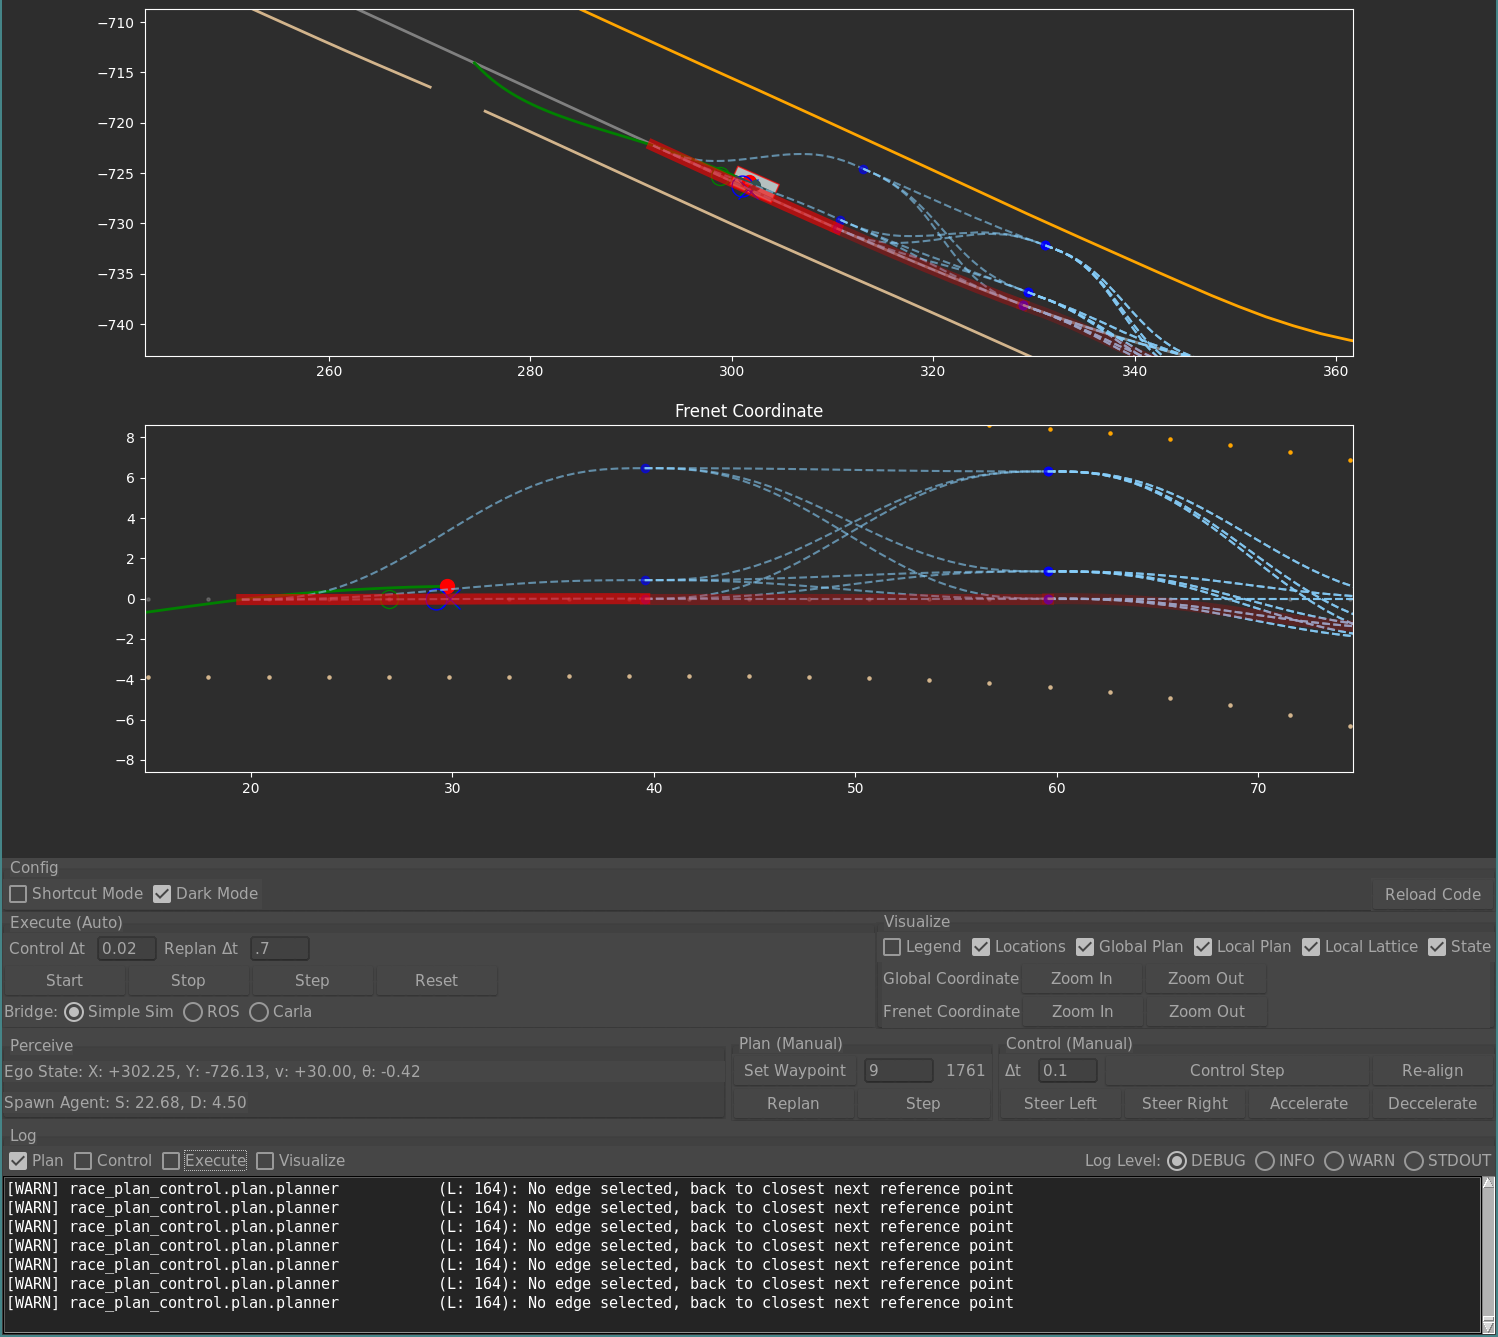
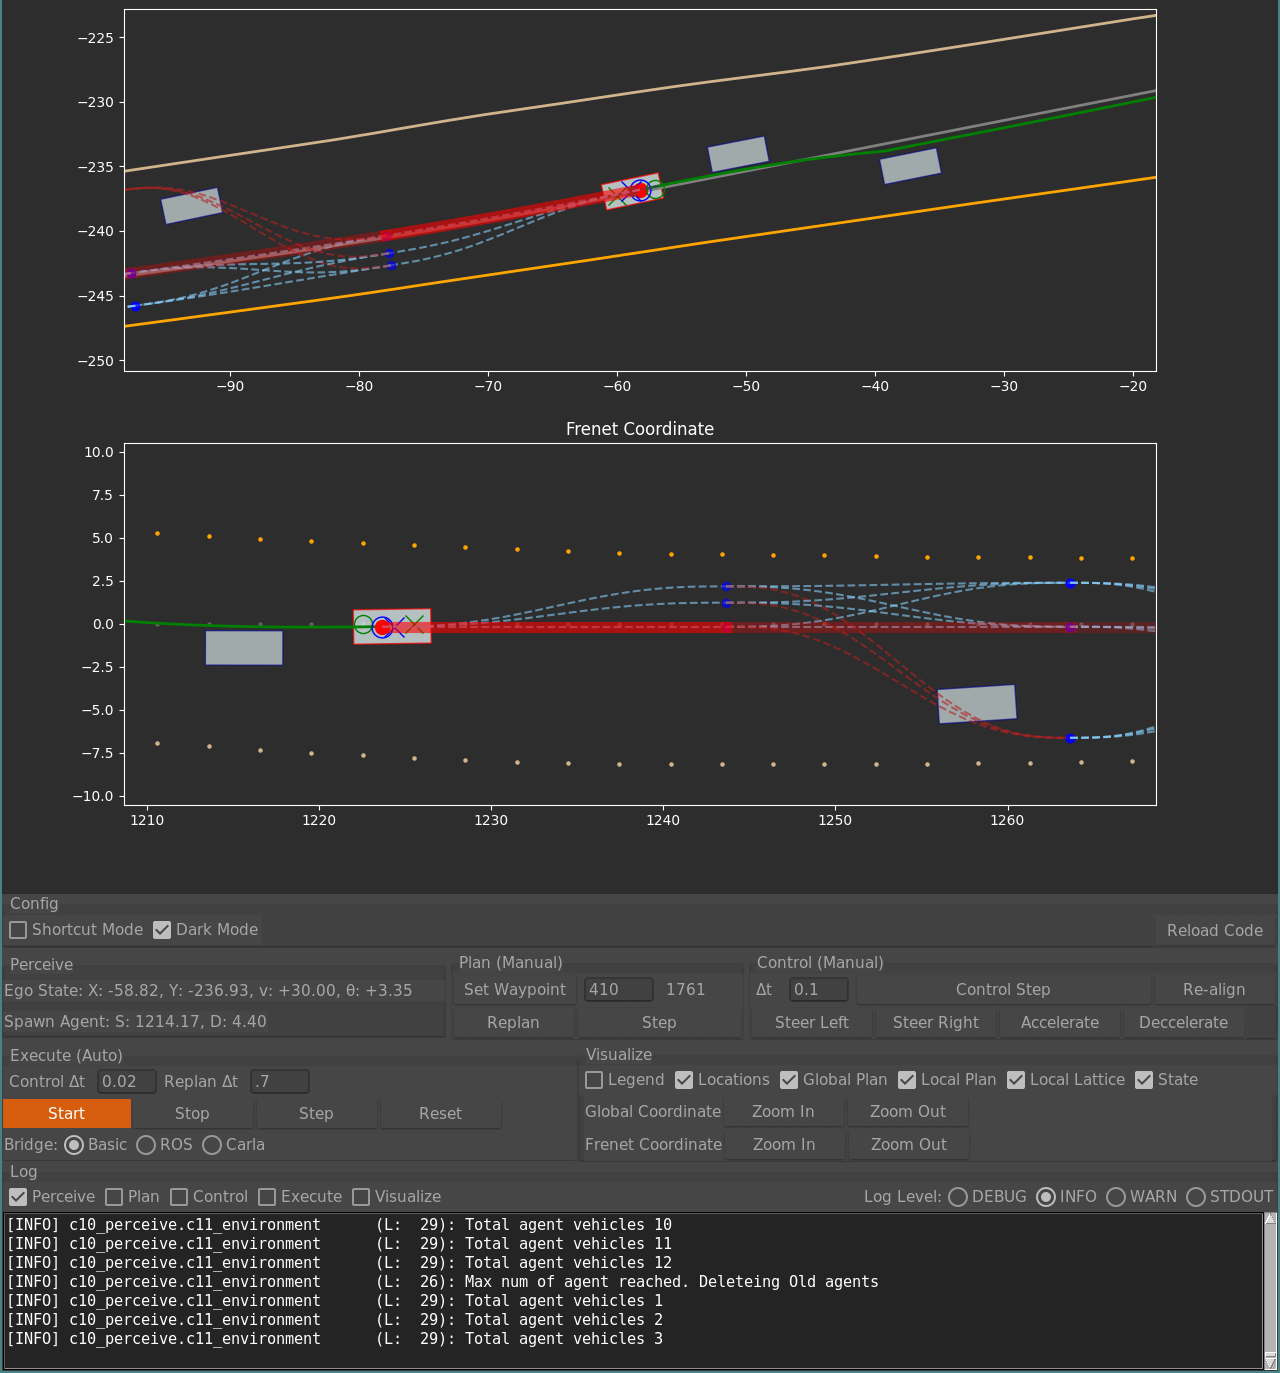
RND Planner completed (mostly)

diff --git a/race_plan_control/c10_perceive/c11_environment.py b/race_plan_control/c10_perceive/c11_environment.py
@@ -1,35 +1,60 @@
+from os import wait
 from shapely.geometry import Polygon
 from c10_perceive.c12_state import State, AgentState, EgoState
 from c20_plan.c24_trajectory import Trajectory
+import numpy as np
 
 
 import logging
+
 log = logging.getLogger(__name__)
 
-class Environment:
-    def __init__(self, ego_state : EgoState,  satatic_obstacles:list[State] = [], agent_vehicles:list[AgentState] = []):
-        self.static_obstacles:list[State] = satatic_obstacles
-        self.agent_vehicles:list[AgentState] = agent_vehicles
-        self.ego_vehicle:EgoState = ego_state
 
-    def add_agent_vehicle(self, agent:AgentState):
+class Environment:
+    # static_obstacles: list[State]
+    agent_vehicles: list[AgentState]
+    ego_vehicle: EgoState
+    max_agent_vehicles:int = 12
+
+    def __init__(self, ego_state: EgoState, satatic_obstacles: list[State] = [], agent_vehicles: list[AgentState] = []):
+        self.static_obstacles: list[State] = satatic_obstacles
+        self.agent_vehicles: list[AgentState] = agent_vehicles
+        self.ego_vehicle: EgoState = ego_state
+
+    def add_agent_vehicle(self, agent: AgentState):
+        if len(self.agent_vehicles) == self.max_agent_vehicles:
+            log.info("Max num of agent reached. Deleteing Old agents")
+            self.agent_vehicles = []
         self.agent_vehicles.append(agent)
         log.info(f"Total agent vehicles {len(self.agent_vehicles)}")
 
+    # TODO: fix orientation 
+    def is_tj_collision_free(self, trajectory: Trajectory = None, sample_size=4):
+        ego = self.ego_vehicle
+        if trajectory is not None:
+            path_x = trajectory.path_x
+            path_y = trajectory.path_y
+            indices = np.linspace(1, len(trajectory.path_x) - 1, sample_size, dtype=int)
+            for i in indices:
+                dx = path_x[i] - path_x[i - 1]
+                dy = path_y[i] - path_y[i - 1]
+                theta = np.arctan2(dy, dx)
+                ego = EgoState(
+                    x = float(path_x[i]),
+                    y = float(path_y[i]),
+                    theta = float(theta)
+                )
 
-
-    def is_collision_free(self, ego: EgoState, trajectory: Trajectory):
-        pass
-        # v = self.ego_vehicle
-        # for o in self.static_obstacles:
-        #     if v.polygon.intersects(o.polygon):
-        #         return False
-        # for o in self.agent_vehicles:
-        #     if v.polygon.intersects(o.polygon):
-        #         return False
-
-
-
+                for agent in self.agent_vehicles:
+                    if ego.get_bb_polygon().intersects(agent.get_bb_polygon()):
+                        log.debug(f"Collision at {ego.x}, {ego.y}")
+                        return False
+        else:
+            for agent in self.agent_vehicles:
+                if ego.get_bb_polygon().intersects(agent.get_bb_polygon()):
+                    log.info(f"Collision at {ego.x}, {ego.y}")
+                    return False
+        return True
 
     def reset(self):
         self.static_obstacles = []

diff --git a/race_plan_control/c40_execute/c41_executer.py b/race_plan_control/c40_execute/c41_executer.py
@@ -26,11 +26,13 @@ class Executer(ABC):
         self.__time_since_last_replan = 0
 
     def step(self, control_dt=0.01, replan_dt=None):
+        t0 = time.time()
         if replan_dt is not None:
             self.__time_since_last_replan += control_dt
             if self.__time_since_last_replan > replan_dt:
                 self.__time_since_last_replan = 0
                 self.planner.replan()
+
         # update planner location
         self.planner.step(self.ego_state)
 
@@ -50,7 +52,9 @@ class Executer(ABC):
         self.__prev_exec_time = time.time()
         self.elapsed_real_time += delta_t_exec
 
-        log.info(f"Exec Step Time:{delta_t_exec:.3f}  | Control Time: {(t2-t1):.4f},  Plan Update Time: {(t4-t3):.4f}")
+        log.info(
+            f"Exec Step Time: {(t4-t0)*1000:.2f} ms | Plan Tim: {(t1 - t0)*1000:.2} ms, Control Time: {(t2-t1)*1000:.2f} ms,  Sim Step Time: {(t4-t3)*1000:.2f} ms"
+        )
         log.info(f"Elapsed Real Time: {self.elapsed_real_time:.3f} | Elapsed Sim Time: {self.elapsed_sim_time:.3f}")
 
     def run(self, control_dt=0.01, replan_dt=None, max_time=100):
@@ -68,21 +72,20 @@ class Executer(ABC):
         self.elapsed_real_time = 0
         self.elapsed_sim_time = 0
 
-    
     def spawn_agent(self, x=None, y=None, s=None, d=None, theta=None):
         if x is not None and y is not None:
             t = self.ego_state.theta if theta is None else theta
             agent = AgentState(x=x, y=y, theta=t, speed=0)
         elif s is not None and d is not None:
             # Convert (s, d) to (x, y) using some transformation logic
-            x,y = self.planner.global_trajectory.convert_sd_to_xy(s, d)
+            x, y = self.planner.global_trajectory.convert_sd_to_xy(s, d)
             log.info(f"Spawning agent at (x, y) = ({x}, {y}) from (s, d) = ({s}, {d})")
             log.info(f"Ego State: {self.ego_state}")
             t = self.ego_state.theta if theta is None else theta
             agent = AgentState(x=x, y=y, theta=t, speed=0)
         else:
             raise ValueError("Either (x, y) or (s, d) must be provided")
-        
+
         self.env.add_agent_vehicle(agent)
 
     @abstractmethod

diff --git a/race_plan_control/c20_plan/c21_planner.py b/race_plan_control/c20_plan/c21_planner.py
@@ -10,6 +10,20 @@ log = logging.getLogger(__name__)
 
 
 class Planner(ABC):
+    global_trajectory: Trajectory
+    ref_left_boundary_d: list[float]
+    ref_right_boundary_d: list[float]
+    ref_left_boundary_x: list[float]
+    ref_left_boundary_y: list[float]
+    ref_right_boundary_x: list[float]
+    ref_right_boundary_y: list[float]
+    traversed_x: list[float]
+    traversed_y: list[float]
+    traversed_d: list[float]
+    traversed_s: list[float]
+    location_xy: tuple[float, float]
+    location_sd: tuple[float, float]
+    lap: int = 0
 
     def __init__(
         self,
@@ -18,18 +32,8 @@ class Planner(ABC):
         ref_right_boundary_d: list[float],
         env: Environment,
     ):
-        self.global_trajectory: Trajectory
-        self.ref_left_boundary_d: list[float]
-        self.ref_right_boundary_d: list[float]
-        self.ref_left_boundary_x: list[float]
-        self.ref_left_boundary_y: list[float]
-        self.ref_right_boundary_x: list[float]
-        self.ref_right_boundary_y: list[float]
-        self.lap: int = 0
-        self.traversed_x: list[float]
-        self.traversed_y: list[float]
-        self.traversed_d: list[float]
-        self.traversed_s: list[float]
+        
+        self._env = env
 
 
         self.global_trajectory = Trajectory(global_path)
@@ -53,7 +57,6 @@ class Planner(ABC):
         self.selected_local_plan: Optional[Edge] = None
         self.lattice = Lattice(self.global_trajectory, ref_left_boundary_d, ref_right_boundary_d)
 
-        self._env = env
 
     def reset(self, wp=0):
         self.traversed_x, self.traversed_y = [self.global_trajectory.path_x[wp]], [self.global_trajectory.path_y[wp]]

diff --git a/race_plan_control/c20_plan/c22_sampling_planner.py b/race_plan_control/c20_plan/c22_sampling_planner.py
@@ -50,15 +50,27 @@ class RNDPlanner(Planner):
             boundary_clearance=self.boundary_clearance,
             sample_size=self.sample_size,
         )
-        self.lattice.generate_lattice_from_nodes()
-        self.selected_local_plan = np.random.choice(self.lattice.level0_edges) if len(self.lattice.level0_edges) > 0 else None
-        edge = self.selected_local_plan
+
+        self.lattice.generate_lattice_from_nodes(env=self._env)
+
+        no_collision_edges = [edge for edge in self.lattice.level0_edges if not edge.collision]
+        if not no_collision_edges:
+            self.selected_local_plan = None
+            return
+
+        sorted_edges = sorted(no_collision_edges, key=lambda edge: abs(edge.end.d))
+        edge = sorted_edges[0]
+
+        self.selected_local_plan = edge
         while edge is not None and len(edge.next_edges) > 0:
-            edge.selected_next_local_plan = np.random.choice(edge.next_edges)
+            no_collision_edges = [edge for edge in edge.next_edges if not edge.collision]
+            if not no_collision_edges:
+                edge.selected_next_local_plan = None
+                break
+            sorted_edges = sorted(no_collision_edges, key=lambda edge: abs(edge.end.d))
+            edge.selected_next_local_plan = sorted_edges[0]
             edge = edge.selected_next_local_plan
 
-        log.debug(f"Sampled Lattice has {len(self.lattice.edges)} edges and {len(self.lattice.nodes)} nodes") 
+        log.debug(f"Sampled Lattice has {len(self.lattice.edges)} edges and {len(self.lattice.nodes)} nodes")
 
         return
-
-

diff --git a/race_plan_control/c50_visualize/c52_plot.py b/race_plan_control/c50_visualize/c52_plot.py
@@ -318,6 +318,13 @@ def update_lattice_graph_plots(pl: Planner, show_plot=True):
                 edge.local_trajectory.path_s_from_parent,
                 edge.local_trajectory.path_d_from_parent,
             )
+            if edge.collision:
+                lattice_graph_plots_ax1[edge_index].set_color("firebrick")
+                lattice_graph_plots_ax2[edge_index].set_color("firebrick")
+            else:
+                lattice_graph_plots_ax1[edge_index].set_color("lightskyblue")
+                lattice_graph_plots_ax2[edge_index].set_color("lightskyblue")
+
             lattice_graph_endpoints_ax1[edge_index].set_data(
                 [edge.local_trajectory.path_x[-1]],
                 [edge.local_trajectory.path_y[-1]],
@@ -409,7 +416,6 @@ def update_state_plots(state: EgoState, global_trajectory: Trajectory, show_plot
 
 def update_env_plots(env: Environment, global_trajectory: Trajectory, show_plot=True):
     if not show_plot or len(env.agent_vehicles) == 0:
-        log.info("No agents to plot")
         for i in range(MAX_AGENT_COUNT):
             env_plots_ax1[i].set_xy(np.empty((0, 2)))
             env_plots_ax2[i].set_xy(np.empty((0, 2)))
@@ -417,7 +423,6 @@ def update_env_plots(env: Environment, global_trajectory: Trajectory, show_plot=
 
     
     def transform(row):
-        log.info(f"Transforming: {row[0]}, {row[1]}")
         return global_trajectory.convert_xy_to_sd(row[0], row[1])
     for i, agent in enumerate(env.agent_vehicles):    
         if i >= MAX_AGENT_COUNT:

diff --git a/race_plan_control/c20_plan/c23_lattice.py b/race_plan_control/c20_plan/c23_lattice.py
@@ -1,4 +1,5 @@
 from os import wait
+from c10_perceive.c11_environment import Environment
 from c20_plan.c24_trajectory import Trajectory
 from typing import Dict
 from dataclasses import dataclass, field
@@ -76,9 +77,9 @@ class Edge:
     selected_next_local_plan: Optional["Edge"]
     next_edges: list["Edge"] = field(default_factory=list["Edge"])
     num_of_points: int = 30
+    collision: bool = False
     cost: float = 0
     risk: float = 0
-
 
     def __init__(self,start: Node, end: Node, global_tj: Trajectory, num_of_points=30):
         local_trajectory = global_tj.create_quintic_trajectory_sd(
@@ -148,12 +149,14 @@ class Lattice:
 
 
 
-    def generate_lattice_from_nodes(self):
+    def generate_lattice_from_nodes(self, env: Optional[Environment] = None):
         for l in range(self.planning_horizon + 1):
             for node in self.lattice_nodes_by_level[l]:
                 for next_node in self.lattice_nodes_by_level[l + 1]:
                     assert node != next_node
                     edge = Edge(node, next_node, self.global_trajectory)
+                    if env is not None:
+                        edge.collision = not env.is_tj_collision_free(edge.local_trajectory)
                     self.edges.append(edge)
                     self.incoming_edges[next_node].append(edge)
                     self.outgoing_edges[node].append(edge)

diff --git a/race_plan_control/c10_perceive/c12_state.py b/race_plan_control/c10_perceive/c12_state.py
@@ -1,10 +1,16 @@
 import numpy as np
-from typing import Optional
+from shapely.geometry import Polygon
 
 import logging
 log = logging.getLogger(__name__)
 
 class State:
+    x:float
+    y:float
+    theta:float
+    width:float
+    length:float
+
     def __init__(self, x=0.0, y=0.0, theta=-np.pi / 4, width=2.0, length=4.5):
         self.x:float  = x
         self.y:float = y
@@ -57,11 +63,16 @@ class State:
 
         return np.c_[rotated_corners_x, rotated_corners_y]
 
+    def get_bb_polygon(self):
+        return Polygon(self.get_bb_corners())
+
     def get_transformed_bb_corners(self, func):
         corners = self.get_bb_corners()
         return np.apply_along_axis(func, 1, corners)
 
 class AgentState(State):
+    speed:float
+
     def __init__(self, x=0.0, y=0.0, theta=-np.pi / 4, speed=0.0, width=2.0, length=4.5):
         self.speed:float = speed
 
@@ -82,6 +93,12 @@ class AgentState(State):
 
 
 class EgoState(AgentState):
+    max_speed:float
+    max_acceleration:float
+    max_deceleration:float
+    max_steering:float
+    L_f:float
+
     def __init__(
         self,
         x=0.0,

diff --git a/race_plan_control/c20_plan/c24_trajectory.py b/race_plan_control/c20_plan/c24_trajectory.py
@@ -44,11 +44,13 @@ class Trajectory:
     current_wp: int
     next_wp: int
 
-    poly_d: Polynomial
-    poly_x: Polynomial
-    poly_y: Polynomial
-    parent_trajectory: "Trajectory"
     name: str
+    poly_d:Optional[Polynomial]  # for local trajectory
+    poly_x: Optional[Polynomial] = None
+    poly_y: Optional[Polynomial] = None
+    parent_trajectory: "Trajectory" 
+    path_s_from_parent: Optional[list]  = None
+    path_d_from_parent: Optional[list] = None
 
     def __init__(self, reference_xy_path, name="Global Trajectory"):
         """
@@ -66,11 +68,6 @@ class Trajectory:
 
         self.current_wp = 0
         self.next_wp = 1
-
-        self.poly_d: Polynomial = None  # for local trajectory
-        self.parent_trajectory: Optional("Trajectory") = None
-        self.path_s_from_parent: Optional[list]  = None
-        self.path_d_from_parent: Optional[list] = None
 
     def get_current_xy(self) -> tuple[float, float]:
         """
